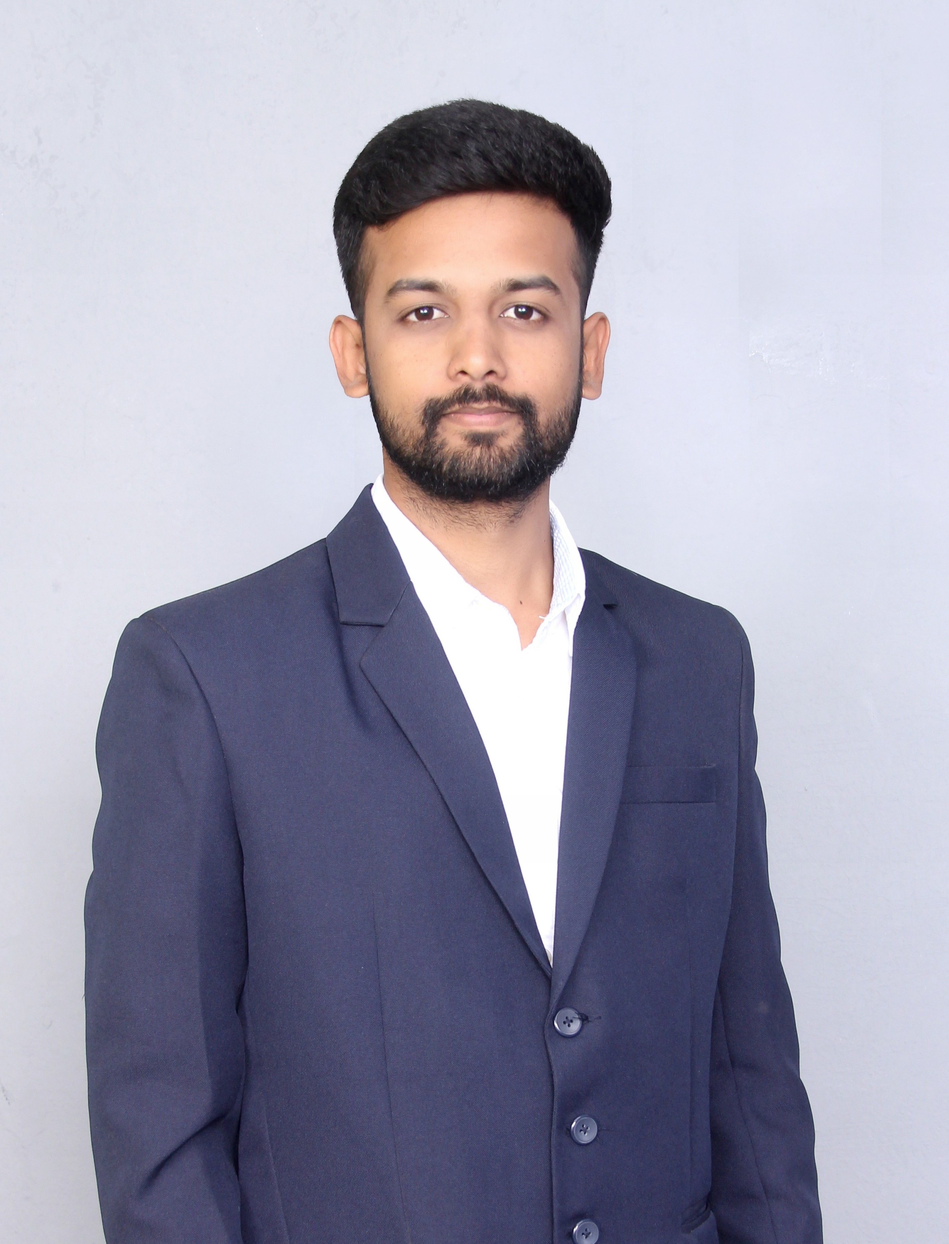
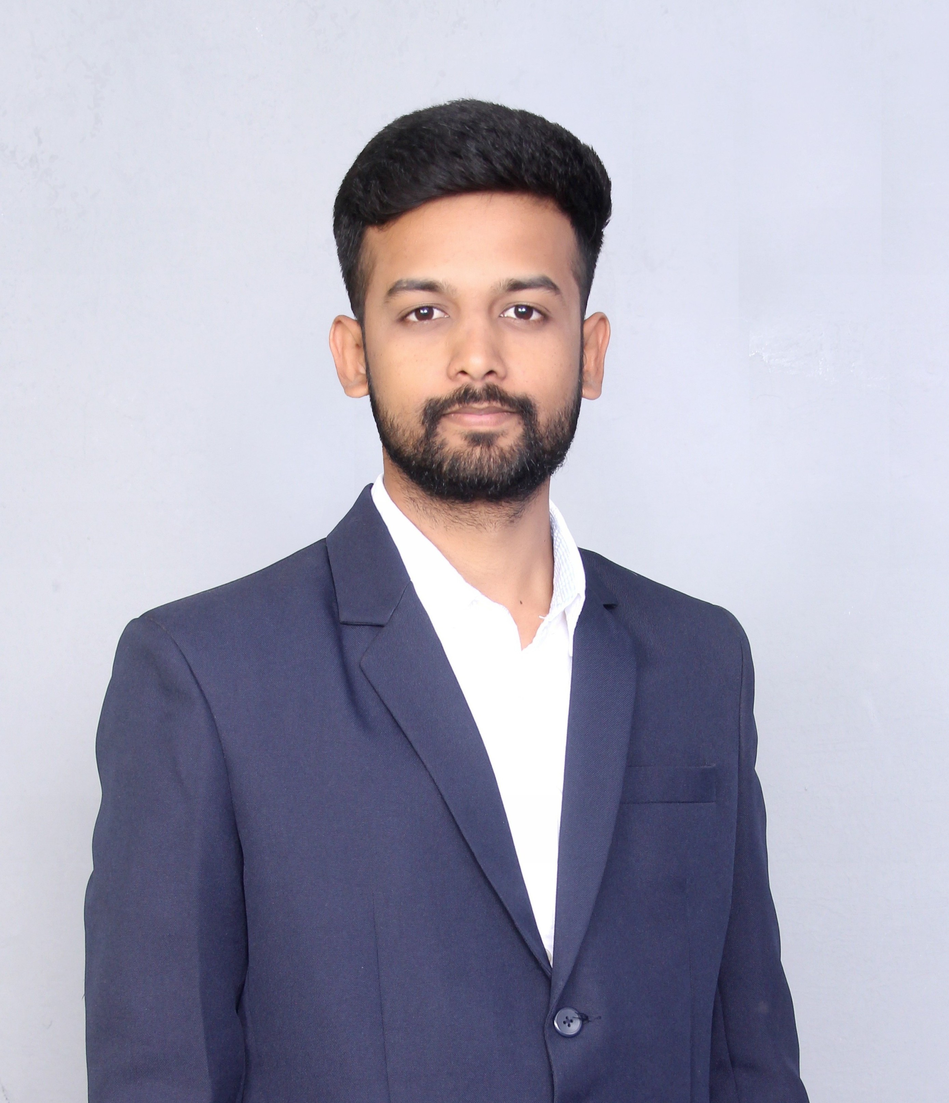
changes

diff --git a/src/components/Hero.jsx b/src/components/Hero.jsx
@@ -1,6 +1,6 @@
 import React from 'react'
 import {easeOut, motion} from 'framer-motion'
-import {assets} from '../assets/assets'
+import { assets } from '../assets/assets'
 
 const Hero = () => {
   return (
@@ -42,7 +42,7 @@ const Hero = () => {
                         ease:"easeInOut"
                     }}
                     className='rounded-full w-64 h-64 md:w-80 md:h-80 object-cover '
-                    src={assets.profile2} alt="profile" />
+                    src={assets.profile} alt="profile" />
 
                 </div>
 

diff --git a/src/assets/assets.js b/src/assets/assets.js
@@ -3,7 +3,6 @@ import { SiFuturelearn } from "react-icons/si";
 
 
 import profile from '../assets/profile.jpg';
-import profile2 from '../assets/profile2.jpg';
 import project1 from '../assets/project1.png';
 import project2 from '../assets/project2.png';
 import project3 from '../assets/project3.png';
@@ -11,7 +10,7 @@ import project3 from '../assets/project3.png';
 
 export const assets = {
     profile,
-    profile2
+    
 }
 
 export const aboutInfo = [
